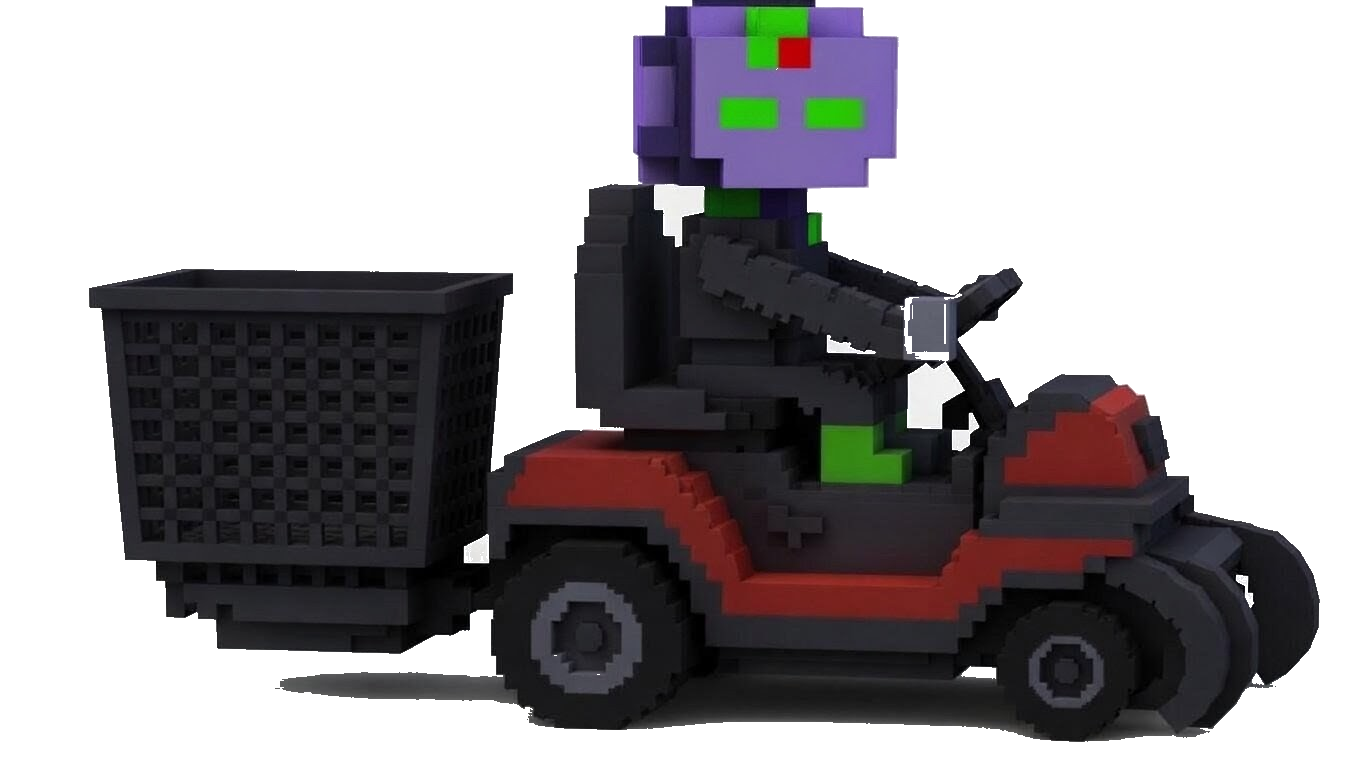
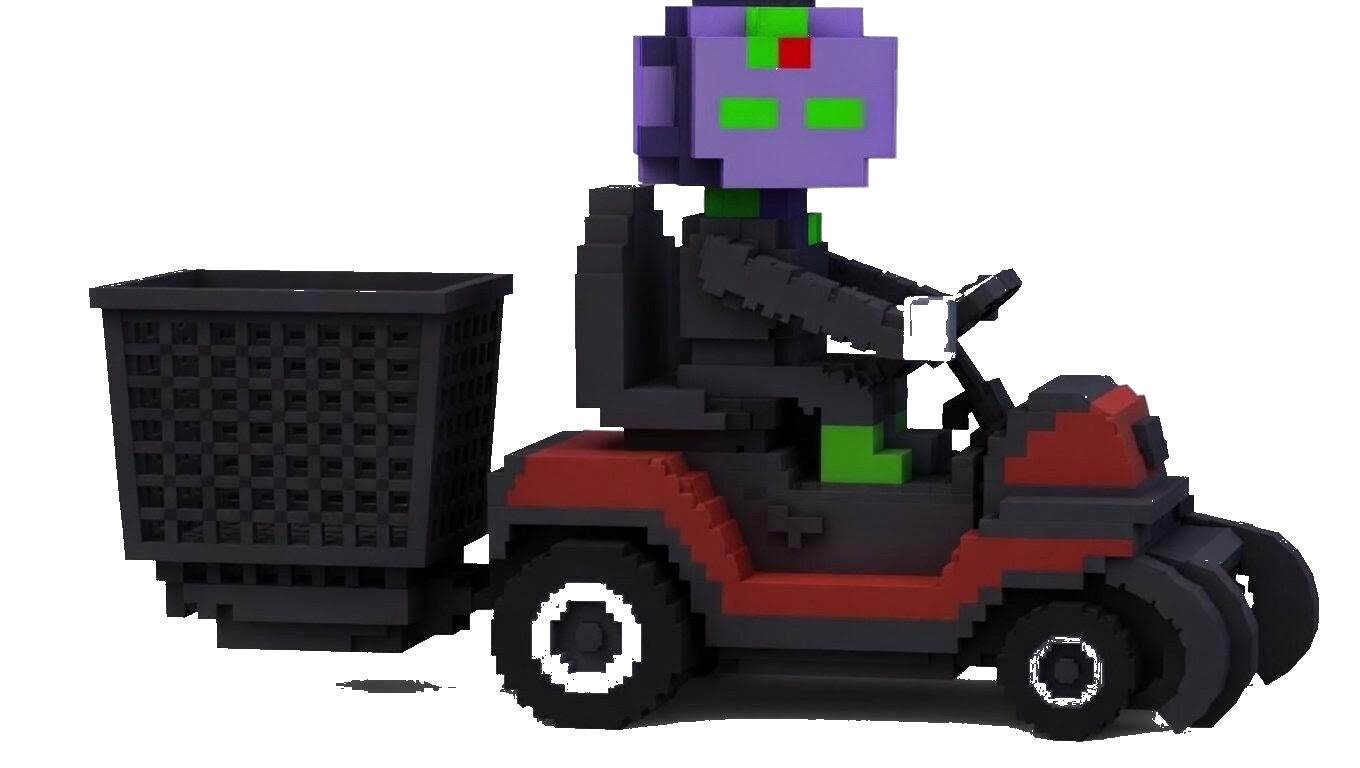
fix(v2.37 OTA): MonkeMower — full asset cleanup + sit at bottom edge
Two final tweaks:

1. Asset cleanup pass widened to "any near-neutral pixel with luma > 70".
   Previous threshold (luma 95-225 + R≈G≈B within 14) still left a
   slight gray oval under the mower. New threshold catches every gray
   shadow remnant. Tires + frame are darker neutrals (luma <60), so they
   survive untouched. Mower body / driver / accents are saturated colors
   so the neutral-check skips them automatically. ~92K extra pixels
   erased; total transparent now 53.7%.

2. pileBottomPx changed from insets.bottom to 0 — banana pile + mower
   both sit at the very bottom edge of the screen, hugging the Android
   App Switcher / iOS home indicator. The system bar is translucent over
   edge-to-edge content so the mower silhouette reads cleanly underneath.
   Removed unused useSafeAreaInsets import (BananaPile no longer needs it).

diff --git a/src/components/worlds/BananaGroveWorld.tsx b/src/components/worlds/BananaGroveWorld.tsx
@@ -22,7 +22,6 @@
 import React, { useEffect, useRef, useState } from "react";
 import { View, Text, StyleSheet, Dimensions } from "react-native";
 import { Canvas, Rect, LinearGradient, vec } from "@shopify/react-native-skia";
-import { useSafeAreaInsets } from "react-native-safe-area-context";
 import Animated, {
   useSharedValue,
   useAnimatedStyle,
@@ -253,11 +252,13 @@ interface BananaPileProps {
 }
 
 function BananaPile({ active }: BananaPileProps) {
-  const insets = useSafeAreaInsets();
-  // Pile sits at the absolute bottom (just clears Android nav bar / iOS home
-  // indicator). The translucent chat input bar renders above this layer, so
-  // bananas visibly stack up THROUGH it.
-  const pileBottomPx = insets.bottom;
+  // Pile + mower sit at the very bottom edge of the screen — under the
+  // Android nav bar (App Switcher area) and iOS home indicator. Previously
+  // this was offset by `insets.bottom` to clear those bars; user pulled it
+  // down so the mower visibly hugs the App Switcher bar. The Android system
+  // bar is translucent over edge-to-edge content, so the mower silhouette
+  // reads cleanly against it.
+  const pileBottomPx = 0;
   const [bananas, setBananas] = useState<PileBanana[]>([]);
   const idRef = useRef(0);
   const laneHeightsRef = useRef<number[]>(new Array(NUM_LANES).fill(0));
